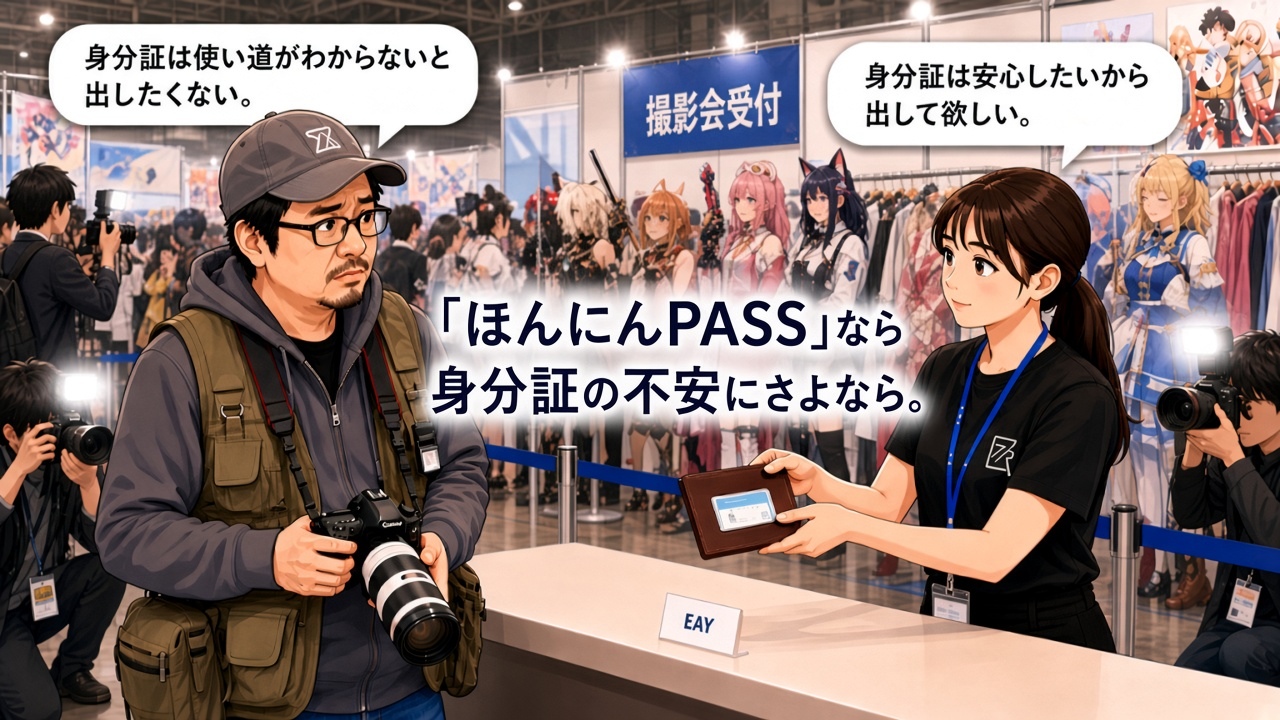
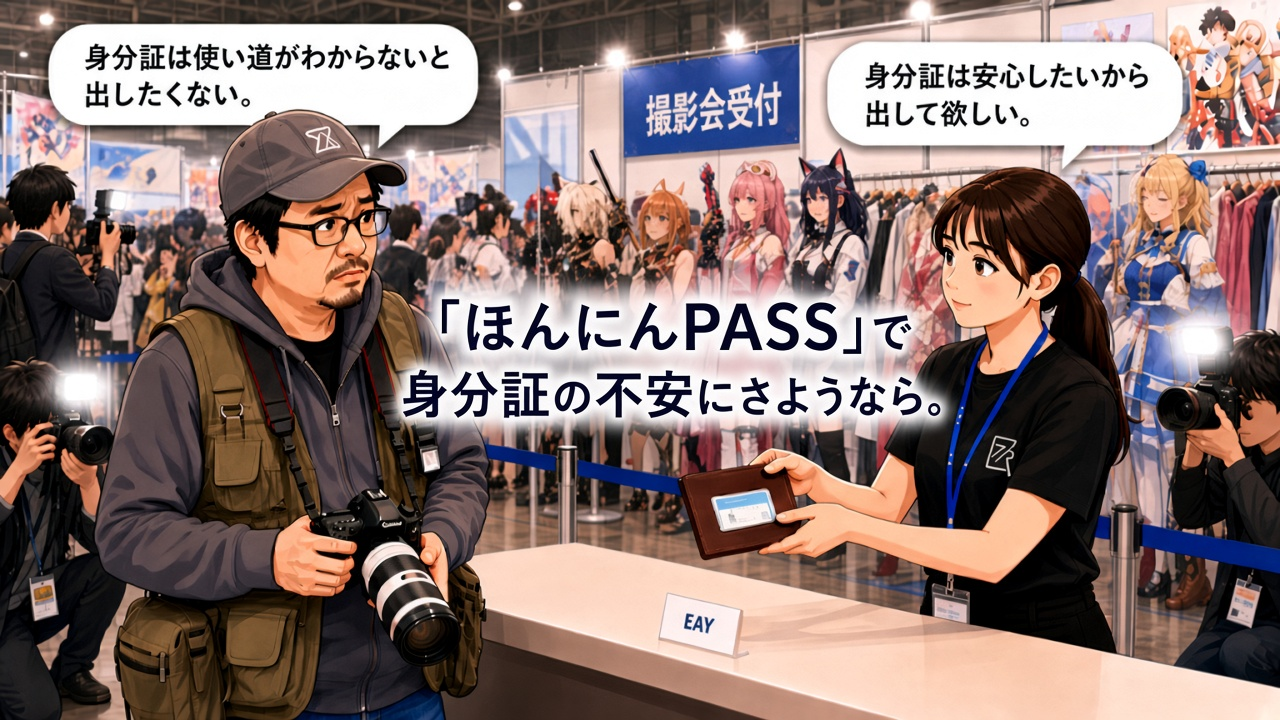
feat: ヒーロー画像のキャッチコピーを更新

Changed region(s): [[0.2812, 0.3667, 0.75, 0.6111]]

diff --git a/components/Hero.tsx b/components/Hero.tsx
@@ -6,13 +6,13 @@ export default function Hero() {
   return (
     <section className="relative overflow-hidden border-b border-slate-100 bg-gradient-to-b from-accent-soft to-white">
       <h1 className="sr-only">
-        「ほんにんPASS」なら身分証の不安にさよなら。
+          「ほんにんPASS」で身分証の不安にさようなら。
       </h1>
 
       <div className="w-full">
         <Image
           src="/hero.png"
-          alt="撮影会の受付で、身分証の提出をためらう参加者と、確認をお願いするスタッフ。ほんにんPASSなら身分証の不安にさよなら。"
+            alt="撮影会の受付で、身分証の提出をためらう参加者と、確認をお願いするスタッフ。「ほんにんPASS」で身分証の不安にさようなら。"
           width={1280}
           height={720}
           priority
